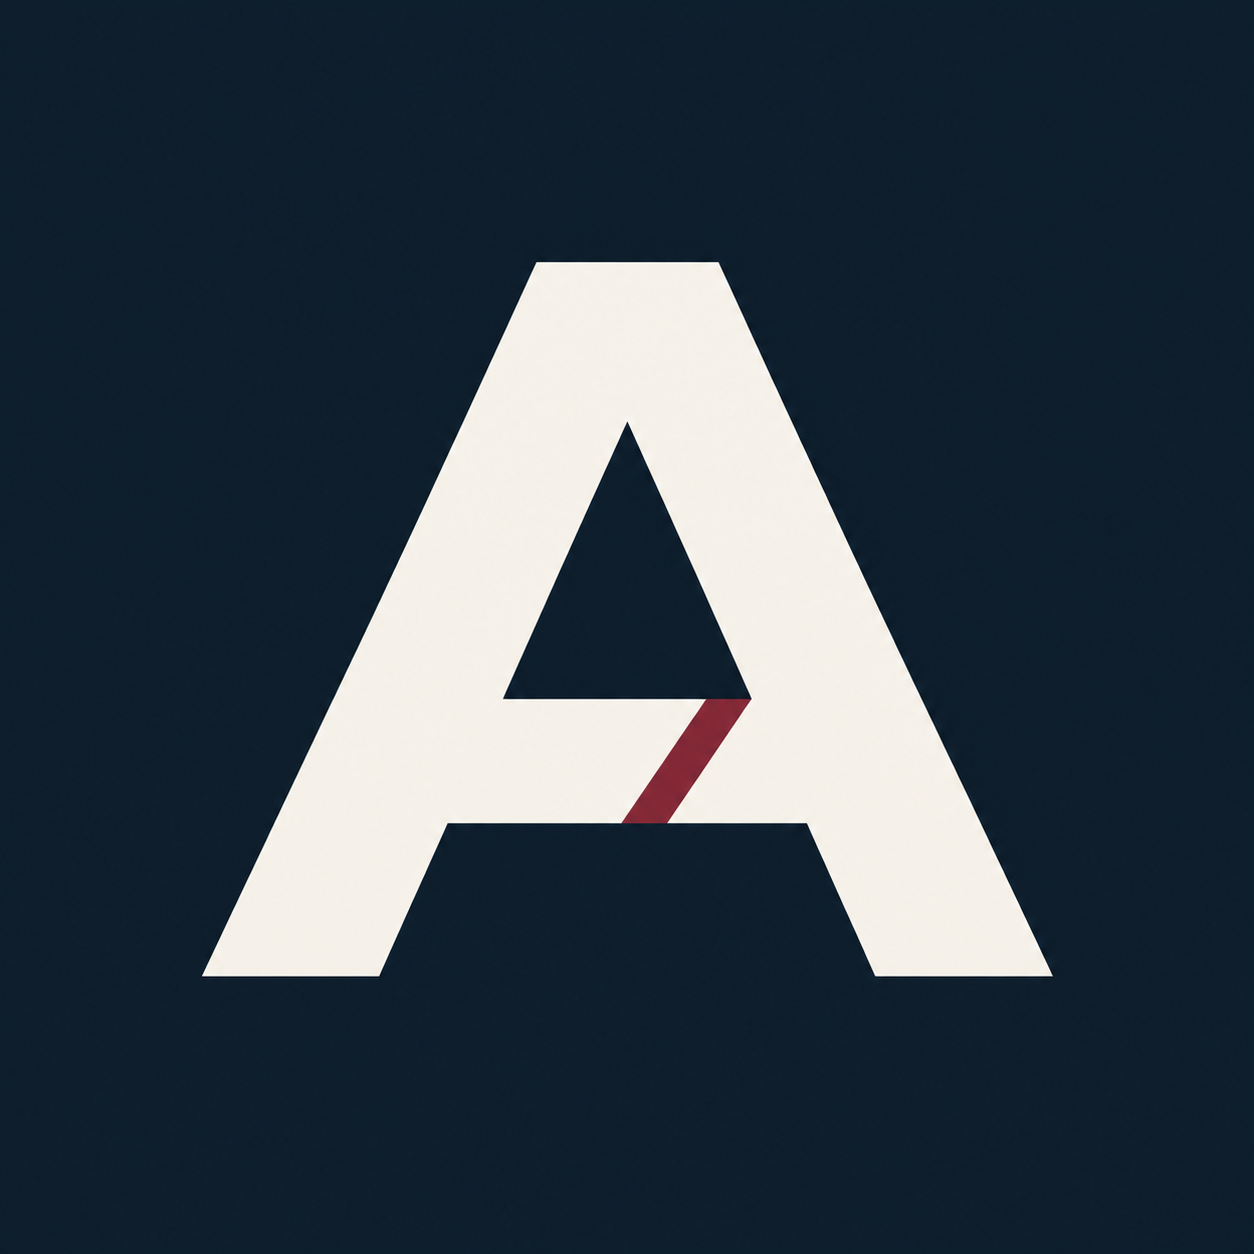
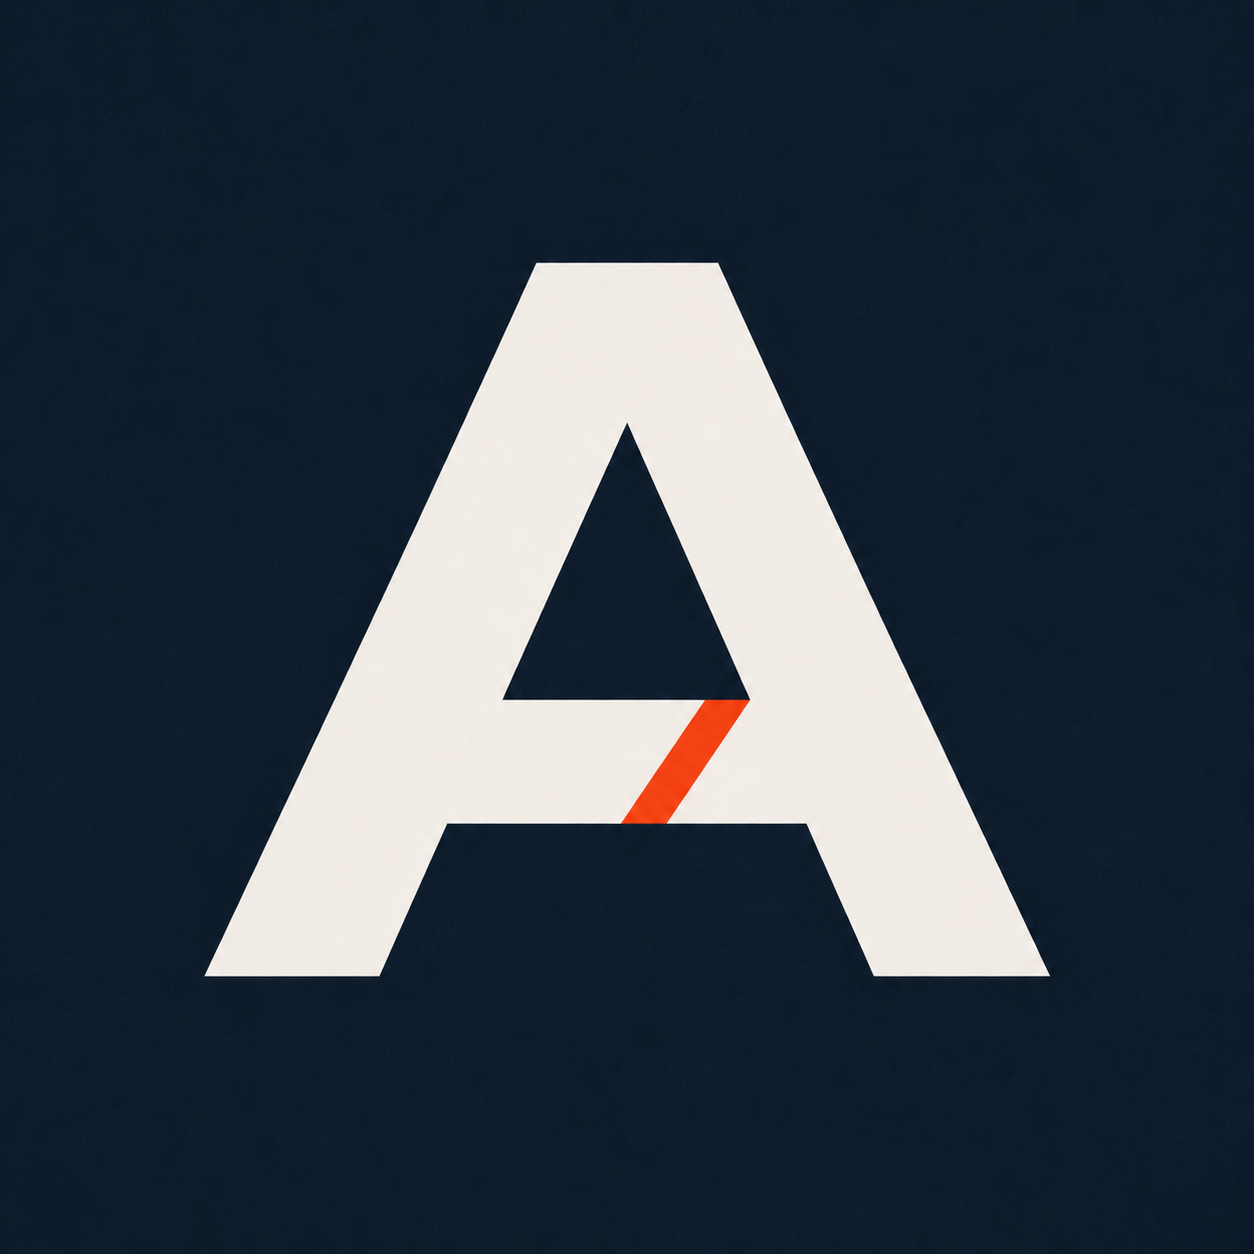
Align site with ALIDIKA VK identity

Changed region(s): [[0.4976, 0.5287, 0.5909, 0.6842]]

diff --git a/shop.html b/shop.html
@@ -3,4 +3,4 @@
 <main><section class="wrap hero"><div class="hero-copy" style="background:var(--red)"><div><div class="eyebrow">Готовые вещи АЛИДИКИ</div><h1>Носить. Жить. Улыбаться.</h1><p class="lead">Удобная одежда с характером и фразами, в которых легко узнать себя.</p></div><div class="hero-actions"><a class="btn" href="#catalog">Выбрать свою →</a></div></div><div class="hero-media"><img src="media/lifestyle-mother-daughter-v2.png" alt="Мама и дочь в одежде АЛИДИКА"></div></section>
 <section class="wrap section" id="catalog"><div class="head"><div class="eyebrow">Коллекция «Шьюха»</div><div><h2>Какую фразу унесёте домой?</h2><p>Ниже — часть коллекции. Выберите настроение, а размер и актуальную стоимость проверьте в магазине.</p></div></div><div class="products"><a class="product" href="https://www.wildberries.ru/brands/alidika" target="_blank" rel="noreferrer"><img src="products/tshirts-logo/01_sshito_na_sovest.png" alt="Футболка Сшито на совесть"><div><strong>«Сшито на совесть»</strong><span>Футболка · смотреть в магазине ↗</span></div></a><a class="product" href="https://www.wildberries.ru/brands/alidika" target="_blank" rel="noreferrer"><img src="products/tshirts-logo/02_zarplata_prishla.png" alt="Футболка Зарплата пришла"><div><strong>«Зарплата пришла»</strong><span>Футболка · смотреть в магазине ↗</span></div></a><a class="product" href="https://www.wildberries.ru/brands/alidika" target="_blank" rel="noreferrer"><img src="products/hoodies-logo/05_vzroslaya_zhizn.png" alt="Худи Взрослая жизнь"><div><strong>«Взрослая жизнь»</strong><span>Худи · смотреть в магазине ↗</span></div></a><a class="product" href="https://www.wildberries.ru/brands/alidika" target="_blank" rel="noreferrer"><img src="products/tshirts-logo/08_shvy_rovnye.png" alt="Футболка Швы ровные"><div><strong>«Швы ровные»</strong><span>Футболка · смотреть в магазине ↗</span></div></a><a class="product" href="https://www.wildberries.ru/brands/alidika" target="_blank" rel="noreferrer"><img src="products/hoodies-logo/09_posadka_reputatsiya.png" alt="Худи Посадка репутация"><div><strong>«Посадка и репутация»</strong><span>Худи · смотреть в магазине ↗</span></div></a><a class="product" href="https://www.wildberries.ru/brands/alidika" target="_blank" rel="noreferrer"><img src="products/tshirts-logo/11_plotnost_ton.png" alt="Футболка Плотность тон"><div><strong>«Плотность и тон»</strong><span>Футболка · смотреть в магазине ↗</span></div></a><a class="product" href="https://www.wildberries.ru/brands/alidika" target="_blank" rel="noreferrer"><img src="products/hoodies-logo/13_svoboda_buhgalteriya.png" alt="Худи Свобода бухгалтерия"><div><strong>«Свобода и бухгалтерия»</strong><span>Худи · смотреть в магазине ↗</span></div></a><a class="product" href="https://www.wildberries.ru/brands/alidika" target="_blank" rel="noreferrer"><img src="products/tshirts-logo/14_rashody_obosnovany.png" alt="Футболка Расходы обоснованы"><div><strong>«Расходы обоснованы»</strong><span>Футболка · смотреть в магазине ↗</span></div></a></div></section>
 <section class="wrap section"><div class="choice"><article><div class="eyebrow">Хочу готовую вещь</div><div><h3>Размер, цена, доставка</h3><p>Актуальные карточки товаров и наличие находятся в магазине АЛИДИКИ.</p><a href="https://www.wildberries.ru/brands/alidika" target="_blank" rel="noreferrer">Перейти на Wildberries ↗</a></div></article><article><div class="eyebrow">Хочу такую, но свою</div><div><h3>Сделаем для бренда</h3><p>Нужна партия со своей идеей, посадкой или принтом? Для этого есть отдельный путь.</p><a href="brand.html">Перейти к производству →</a></div></article></div></section>
-<section class="wrap final"><div class="final-box"><div class="eyebrow" style="justify-content:center">Не нашли ответ?</div><h2>Можно просто написать</h2><p>Поможем с вопросом по коллекции и подскажем, где искать нужную вещь.</p><a class="btn" href="https://vk.ru/alidika19" target="_blank" rel="noreferrer">Написать АЛИДИКЕ ↗</a></div><footer><a class="logo" href="../index.html">АЛИДИКА<i></i></a><span>Семейное производство · Ижевск</span></footer></section></main></body></html>
+<section class="wrap final"><div class="final-box"><div class="eyebrow" style="justify-content:center">Не нашли ответ?</div><h2>Можно просто написать</h2><p>Поможем с вопросом по коллекции и подскажем, где искать нужную вещь.</p><a class="btn" href="https://vk.ru/alidika_izh" target="_blank" rel="noreferrer">Написать АЛИДИКЕ ↗</a></div><footer><a class="logo" href="../index.html">АЛИДИКА<i></i></a><span>Семейное производство · Ижевск</span></footer></section></main></body></html>

diff --git a/brand.html b/brand.html
@@ -5,4 +5,4 @@
 <section class="wrap section"><div class="head"><div class="eyebrow">Настоящие работы</div><h2>От одной идеи — к целой партии</h2></div><div class="showcase"><div class="shot"><img src="media/max-2026-07-22/62c54d7a4a68e8be.webp" alt="Сумки на заказ"><span>СУМКИ</span></div><div class="shot"><img src="media/max-2026-07-22/8901064992c6a084.webp" alt="Футболка с печатью"><span>ПЕЧАТЬ</span></div><div class="shot"><img src="media/max-2026-07-22/bebeccd2d79e05da.webp" alt="Жилет на заказ"><span>ЖИЛЕТЫ</span></div></div></section>
 <section class="section dark"><div class="wrap"><div class="head"><div class="eyebrow">Понятный процесс</div><div><h2>Без производственного квеста</h2><p>Держим заказ в одних руках и объясняем, что происходит на каждом этапе.</p></div></div><div class="steps"><div class="step"><b>01</b><h3>Задача</h3><p>Изделие, количество, размеры, срок и город.</p></div><div class="step"><b>02</b><h3>Решение</h3><p>Предлагаем материал, конструкцию и нанесение.</p></div><div class="step"><b>03</b><h3>Производство</h3><p>Кроим, шьём, печатаем и проверяем.</p></div><div class="step"><b>04</b><h3>Отправка</h3><p>Упаковываем и передаём готовую партию.</p></div></div></div></section>
 <section class="wrap section"><div class="head"><div class="eyebrow">Частые вопросы</div><h2>Можно спросить нормально</h2></div><div class="faq"><article><h3>А если нет готового техзадания?</h3><p>Не страшно. Опишите идею своими словами и покажите примеры — поможем собрать задачу.</p></article><article><h3>Как узнать стоимость?</h3><p>Цена зависит от изделия, ткани, количества, нанесения и сроков. После вводных подготовим расчёт.</p></article><article><h3>Можно сделать пробный образец?</h3><p>Обсудим подходящий порядок работы до запуска партии.</p></article><article><h3>Отправляете в другие города?</h3><p>Да, согласуем доступный способ доставки по России и другим доступным направлениям.</p></article></div></section>
-<section class="wrap final" id="calculate"><div class="final-box"><div class="eyebrow" style="justify-content:center">Начнём без бюрократии</div><h2>Напишите пять вещей</h2><p>Что шьём, сколько, какие размеры, нужен ли принт, срок и город. Если чего-то не знаете — так и скажите.</p><a class="btn" href="https://vk.ru/alidika19" target="_blank" rel="noreferrer">Получить расчёт во ВКонтакте ↗</a></div><footer><a class="logo" href="../index.html">АЛИДИКА<i></i></a><span>Семейное производство · Ижевск</span></footer></section></main></body></html>
+<section class="wrap final" id="calculate"><div class="final-box"><div class="eyebrow" style="justify-content:center">Начнём без бюрократии</div><h2>Напишите пять вещей</h2><p>Что шьём, сколько, какие размеры, нужен ли принт, срок и город. Если чего-то не знаете — так и скажите.</p><a class="btn" href="https://vk.ru/alidika_izh" target="_blank" rel="noreferrer">Получить расчёт во ВКонтакте ↗</a></div><footer><a class="logo" href="../index.html">АЛИДИКА<i></i></a><span>Семейное производство · Ижевск</span></footer></section></main></body></html>

diff --git a/index.html b/index.html
@@ -3,7 +3,7 @@
 <head>
   <meta charset="UTF-8">
   <meta name="viewport" content="width=device-width,initial-scale=1">
-  <meta name="theme-color" content="#17242c">
+  <meta name="theme-color" content="#111214">
   <meta name="description" content="Оптовый пошив одежды, мерча, сумок и текстильных изделий в Ижевске. Соберите партию на сайте и отправьте готовую заявку на расчёт.">
   <meta property="og:title" content="АЛИДИКА — оптовый пошив в Ижевске">
   <meta property="og:description" content="Семейное производство одежды, мерча и текстиля. Соберите оптовую партию без сложного техзадания.">
@@ -16,7 +16,7 @@
   <link href="https://fonts.googleapis.com/css2?family=Onest:wght@400;500;600;700&family=Unbounded:wght@600;700&display=swap" rel="stylesheet">
   <link rel="stylesheet" href="wholesale.css">
   <script type="application/ld+json">
-    {"@context":"https://schema.org","@type":"Organization","name":"АЛИДИКА","description":"Семейное швейное производство одежды, мерча, сумок и текстильных изделий","address":{"@type":"PostalAddress","addressLocality":"Ижевск","addressCountry":"RU"},"sameAs":["https://vk.ru/alidika19"]}
+    {"@context":"https://schema.org","@type":"Organization","name":"АЛИДИКА","description":"Семейное швейное производство одежды, мерча, сумок и текстильных изделий","address":{"@type":"PostalAddress","addressLocality":"Ижевск","addressCountry":"RU"},"sameAs":["https://vk.ru/alidika_izh"]}
   </script>
 </head>
 <body>
@@ -161,7 +161,7 @@
     <div class="wrap">
       <a class="logo" href="#top">АЛИДИКА<span></span></a>
       <p>Семейное швейное производство · Ижевск</p>
-      <div><a href="https://vk.ru/alidika19" target="_blank" rel="noreferrer">Мы во ВКонтакте ↗</a><a href="shop.html">Готовые вещи</a></div>
+      <div><a href="https://vk.ru/alidika_izh" target="_blank" rel="noreferrer">Мы во ВКонтакте ↗</a><a href="shop.html">Готовые вещи</a></div>
     </div>
   </footer>
 

diff --git a/wholesale.css b/wholesale.css
@@ -5,3 +5,13 @@
 @media(prefers-reduced-motion:reduce){html{scroll-behavior:auto}*,*:before,*:after{transition:none!important;animation:none!important}}
 .choice-row.two{grid-template-columns:repeat(2,1fr)}.helper{display:block;margin-top:6px;color:var(--muted)}.honeypot{position:absolute!important;left:-10000px!important;width:1px!important;height:1px!important;overflow:hidden!important}.send-choice{margin-top:24px}.social-note{color:var(--muted);font-size:14px}.social-actions{display:grid;grid-template-columns:1fr 1fr;gap:10px}.social-vk{background:#1674e8;color:white}.social-max{background:#191919;color:white}.send-status{display:none;margin-top:14px;padding:14px;border-radius:12px;font-weight:600}.send-status.success{display:block;background:#e1edda;color:#25461e}.send-status.error{display:block;background:#f4dfe3;color:#762f45}.btn[disabled]{cursor:wait;opacity:.65}
 @media(max-width:620px){.choice-row.two,.social-actions{grid-template-columns:1fr}}
+
+/* ALIDIKA brand system, aligned with the VK avatar and cover. */
+:root{--ink:#111214;--ink2:#222326;--wine:#ff4b23;--wine2:#e83c17;--sage:#f0e9de;--paper:#f5efe5;--line:#d8d0c4;--muted:#696761;--shadow:0 24px 70px rgba(17,18,20,.16)}
+.site-header{background:rgba(245,239,229,.94);border-bottom-color:rgba(17,18,20,.12)}
+.logo{position:relative}
+.logo:after{content:"";position:absolute;left:0;right:0;bottom:-7px;height:4px;border-radius:999px;background:repeating-linear-gradient(45deg,var(--wine) 0 18px,var(--ink) 18px 21px)}
+.logo span{display:none}
+h1 em{color:var(--wine)}
+.choice-row input:checked+span{background:#fff0e9;color:#c83212}
+:focus-visible{outline-color:var(--wine)}

diff --git a/funnel.css b/funnel.css
@@ -5,3 +5,14 @@
 @media(max-width:540px){.wrap{width:calc(100% - 24px)}.nav{height:68px}.hero-copy{padding:30px 22px}.hero-copy,.hero-media{min-height:460px}.hero-copy{border-radius:10px 36px 10px 10px}.hero-media{border-radius:36px 10px 10px 10px}h1{font-size:40px}.grid,.showcase,.products,.faq,.steps{grid-template-columns:1fr}.step,.step:first-child{border-right:0;border-bottom:1px solid #3b4650;padding:24px 0;min-height:auto}.step h3{margin-top:34px}.choice article{padding:28px}.final-box{border-radius:10px 38px 10px 10px}footer{height:150px;flex-direction:column;justify-content:center;gap:15px}}
 @media(prefers-reduced-motion:reduce){*{scroll-behavior:auto!important;transition:none!important}}
 a:focus-visible{outline:3px solid var(--blue);outline-offset:4px}
+
+/* ALIDIKA brand system, aligned with the VK avatar and cover. */
+:root{--ink:#111214;--cream:#f5efe5;--paper:#fffaf2;--acid:#ff4b23;--red:#ff4b23;--blue:#26272a;--muted:#696761;--line:rgba(17,18,20,.16)}
+.logo{position:relative}
+.logo:after{content:"";position:absolute;left:0;right:0;bottom:-7px;height:4px;border-radius:999px;background:repeating-linear-gradient(45deg,var(--red) 0 18px,var(--ink) 18px 21px)}
+.logo i{display:none}
+.choice article:first-child{background:var(--ink)}
+.choice article:last-child,.final-box{background:var(--red);color:white}
+.final-box .btn{background:var(--paper);color:var(--ink)}
+.step b{color:var(--red)}
+a:focus-visible{outline-color:var(--red)}
